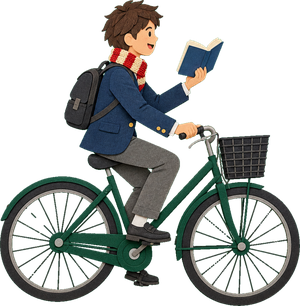
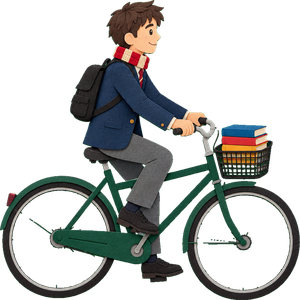
v2-pro preview: Pudding greets the cyclist
Claude-Session: https://claude.ai/code/session_01YFmgE8t31npEdtV1E44xiG

Changed region(s): [[0.0, 0.0, 1.0, 1.0], [0.33, 0.42, 0.39, 0.45]]

diff --git a/v2-pro/index.html b/v2-pro/index.html
@@ -313,11 +313,21 @@ p { margin: 0; }
 
 
 /* Pudding the puppy sits on the pavement by the student from the start; when the journey arrives she hops, then wags and tilts her head */
-.stepimg .pudding { position: absolute; width: 7.6%; height: auto; left: 30.5%; top: 57.5%; transform-origin: 50% 100%; pointer-events: none; filter: drop-shadow(0 2px 1px rgba(0,0,0,.22)); }
+.stepimg .pud { position: absolute; width: 7.6%; left: 30.5%; top: 57.5%; pointer-events: none; }
+.stepimg .pudding { display: block; width: 100%; height: auto; transform-origin: 50% 100%; pointer-events: none; filter: drop-shadow(0 2px 1px rgba(0,0,0,.22)); }
 .journey.live li.played .stepimg .pudding { animation: pud-hop .9s steps(1, end) 1.2s 1, pud-wag 2.4s steps(1, end) 2.2s infinite; }
 @keyframes pud-hop { 0%, 100% { transform: none; } 20% { transform: scale(1.06, .9); } 40% { transform: translateY(-24%) scale(.96, 1.06); } 60% { transform: translateY(-8%); } 80% { transform: scale(1.04, .94); } }
 @keyframes pud-wag { 0%, 100% { transform: none; } 15% { transform: rotate(-5deg); } 30% { transform: rotate(4deg); } 45% { transform: rotate(-4deg); } 60% { transform: rotate(3deg) translateY(-4%); } 75% { transform: none; } }
-@media (prefers-reduced-motion: reduce) { .stepimg .pudding { animation: none !important; } }
+/* when the boy stops, Pudding turns, trots over and jumps up to greet him */
+.journey.live li.played .stepimg .pud { animation: pud-greet 1.9s steps(1, end) 2.9s 1 forwards; }
+@keyframes pud-greet {
+  0% { left: 30.5%; top: 57.5%; transform: none; } 10% { left: 30.5%; top: 57.5%; transform: scaleX(-1); }
+  20% { left: 28.5%; top: 58%; transform: scaleX(-1) translateY(-10%); } 30% { left: 26.5%; top: 58.5%; transform: scaleX(-1); }
+  40% { left: 24.5%; top: 59%; transform: scaleX(-1) translateY(-10%); } 50% { left: 22.5%; top: 59.5%; transform: scaleX(-1); }
+  60% { left: 20.5%; top: 60%; transform: scaleX(-1) translateY(-10%); } 68% { left: 19.5%; top: 60.5%; transform: scaleX(-1); }
+  78% { left: 19.5%; top: 60.5%; transform: scaleX(-1) translateY(-24%) rotate(-6deg); } 86% { left: 19.5%; top: 60.5%; transform: scaleX(-1); }
+  94% { left: 19.5%; top: 60.5%; transform: scaleX(-1) translateY(-16%) rotate(-4deg); } 100% { left: 19.5%; top: 60.5%; transform: scaleX(-1); } }
+@media (prefers-reduced-motion: reduce) { .stepimg .pudding, .stepimg .pud { animation: none !important; } }
 
 
 .intro .sunsetsky { position: absolute; inset: 0; z-index: 0; opacity: 0; pointer-events: none;
@@ -577,7 +587,7 @@ footer .base { margin-top: 40px; padding-top: 18px; border-top: 1px solid rgba(2
           </div>
         </div>
         <figure class="pframe">
-          <img src="images/v2/consult.jpg?v=1795372615" alt="A consultant talking with a mother and her daughter by a window over the sea" width="1400" height="933">
+          <img src="images/v2/consult.jpg?v=1795372717" alt="A consultant talking with a mother and her daughter by a window over the sea" width="1400" height="933">
         </figure>
       </div>
       <div class="facts">
@@ -598,9 +608,9 @@ footer .base { margin-top: 40px; padding-top: 18px; border-top: 1px solid rgba(2
       <div>
         <div class="journey" id="journey"><span class="track" aria-hidden="true"><span class="fill"></span><span class="dot"></span></span>
         <ol class="process">
-          <li><span class="n">1</span><h3><span class="en">A free conversation</span><span class="zh">免费沟通</span></h3><p><span class="en">Tell us about age, grades, English level, budget and goals, by WeChat call or in person.</span><span class="zh">通过微信语音或面谈，聊聊年龄、成绩、英语水平、预算和目标。</span><span class="who"><span class="en">With Oriwis</span><span class="zh">Oriwis 陪同</span></span></p><div class="stepimg"><div class="scene"><img class="base" src="images/v2/step1.jpg?v=1795372615" alt="Paper-cut illustration: a consultant with a short black bob, in a navy blazer, talking with a mother and her daughter at a table, with a palm tree in the window" width="960" height="640" loading="lazy"><div class="sea" style="left:30.312%;top:15.000%;width:22.396%;height:25.000%"><img src="images/v2/step1.jpg?v=1795372615" alt="" style="width:446.512%;left:-135.349%;top:-60.000%;transform-origin:41.51% 27.50%"></div><div class="sea" style="left:54.583%;top:17.500%;width:21.562%;height:22.500%"><img src="images/v2/step1.jpg?v=1795372615" alt="" style="width:463.768%;left:-253.140%;top:-77.778%;transform-origin:65.36% 28.75%"></div><svg class="palm" viewBox="0 0 120 170" aria-hidden="true" style="left:62.292%;top:0.000%;width:10.000%"><ellipse cx="60" cy="160" rx="34" ry="8" fill="#cdb07a"/><ellipse cx="60" cy="157" rx="30" ry="7" fill="#e9d3a3"/><g class="palm-sway"><path d="M55 158 C57 125 52 92 60 52 L67 53 C61 92 66 125 65 158 Z" fill="#8a5c3a"/><path d="M57 150h8M56 138h9M55 126h9M55 114h9M56 102h9M57 90h9M58 78h8M59 66h8" stroke="#6d4529" stroke-width="2" stroke-linecap="round"/><g class="fronds"><path d="M63 50 C45 34 22 32 6 44 C24 38 42 42 63 54 Z" fill="#2c7c58"/><path d="M63 50 C50 26 34 14 16 14 C34 22 47 34 61 54 Z" fill="#3a9a6c"/><path d="M63 50 C64 28 72 12 86 6 C76 18 70 32 66 54 Z" fill="#2c7c58"/><path d="M63 50 C80 32 100 30 116 40 C98 38 82 42 66 55 Z" fill="#3a9a6c"/><path d="M64 52 C84 50 104 58 112 74 C98 62 82 58 64 57 Z" fill="#2c7c58"/><path d="M62 52 C44 52 24 62 16 78 C30 66 46 60 62 57 Z" fill="#3a9a6c"/><circle cx="60" cy="56" r="4.2" fill="#6b4a2e"/><circle cx="67" cy="57" r="4" fill="#5a3d25"/></g></g></svg><svg class="gull" viewBox="0 0 40 20" aria-hidden="true"><path class="w1" d="M2 12 Q10 2 20 11 Q30 2 38 12 Q30 7 20 14 Q10 7 2 12Z"/><path class="w2" d="M3 6 Q11 13 20 11 Q29 13 37 6 Q29 15 20 15 Q11 15 3 6Z"/></svg><span class="wtint" aria-hidden="true" style="left:30.312%;top:0.000%;width:22.396%;height:40.000%"><span class="dusk"></span><span class="night"><i class="wstar" style="left:18%;top:20%"></i><i class="wstar" style="left:40%;top:10%"></i><i class="wstar" style="left:70%;top:30%"></i><i class="wstar" style="left:25%;top:45%"></i></span></span><span class="wtint" aria-hidden="true" style="left:54.583%;top:0.000%;width:21.562%;height:40.000%"><span class="dusk"></span><span class="night"><i class="wmoon"></i><i class="wstar" style="left:15%;top:12%"></i><i class="wstar" style="left:35%;top:40%"></i><i class="wstar" style="left:55%;top:8%"></i></span></span><div class="pc b1" style="left:0.000%;top:46.094%;width:31.562%;transform-origin:46.2% 99.6%"><img class="bimg" src="images/v2/step1-b1.png?v=1795372615" alt="" loading="lazy"><img class="arm" src="images/v2/step1-arm.png?v=1795372615" alt="" loading="lazy" style="left:86.139%;top:21.983%;width:36.964%;transform-origin:22.3% 85.4%"><img class="head h1" src="images/v2/step1-h1.png?v=1795372615" alt="" loading="lazy" style="left:14.191%;top:-76.293%;width:61.716%;transform-origin:62.6% 98.9%"></div><div class="pc b2" style="left:38.646%;top:47.500%;width:28.958%;transform-origin:50.0% 98.6%"><img class="bimg" src="images/v2/step1-b2.png?v=1795372615" alt="" loading="lazy"><img class="head h2" src="images/v2/step1-h2.png?v=1795372615" alt="" loading="lazy" style="left:17.626%;top:-92.417%;width:74.820%;transform-origin:49.0% 99.5%"></div><div class="pc b3" style="left:72.604%;top:49.375%;width:26.875%;transform-origin:47.7% 98.4%"><img class="bimg" src="images/v2/step1-b3.png?v=1795372615" alt="" loading="lazy"><img class="head h3" src="images/v2/step1-h3.png?v=1795372615" alt="" loading="lazy" style="left:23.256%;top:-61.200%;width:74.806%;transform-origin:30.1% 99.4%"></div></div></div></li>
-          <li><span class="n">2</span><h3><span class="en">Your shortlist</span><span class="zh">匹配清单</span></h3><p><span class="en">A short list of suitable UK schools or courses, with entry requirements and timing explained.</span><span class="zh">一份适合你的英国学校或课程清单，讲清入学要求和时间安排。</span><span class="who"><span class="en">With Oriwis</span><span class="zh">Oriwis 陪同</span></span></p><div class="stepimg"><div class="scene"><img class="base" src="images/v2/step2.jpg?v=1795372615" alt="Paper-cut illustration: a magnifying glass moves over a map of the UK and finds schools in Scotland, the Midlands and London" width="960" height="640" loading="lazy"><img class="card cardA" src="images/v2/step2-cardA.png?v=1795372615" alt="" loading="lazy" style="left:62.500%;top:6.562%;width:26.042%"><img class="card cardC" src="images/v2/step2-cardC.png?v=1795372615" alt="" loading="lazy" style="left:12.500%;top:39.062%;width:22.396%"><img class="card cardB" src="images/v2/step2-cardB.png?v=1795372615" alt="" loading="lazy" style="left:70.000%;top:51.562%;width:26.042%"><svg class="mag" viewBox="0 0 120 120" aria-hidden="true"><rect x="74" y="70" width="16" height="52" rx="7" transform="rotate(-45 82 96)" fill="#1e4a63"/><rect x="77" y="73" width="6" height="40" rx="3" transform="rotate(-45 80 93)" fill="#2f6582"/><circle cx="48" cy="48" r="38" fill="rgba(255,255,255,.22)" stroke="#1e4a63" stroke-width="10"/><circle cx="48" cy="48" r="31" fill="none" stroke="#8fc6c9" stroke-width="3"/><path d="M30 30 Q38 22 50 22" fill="none" stroke="#fff" stroke-width="5" stroke-linecap="round" opacity=".75"/></svg></div></div></li>
-          <li class="you"><span class="n">3</span><h3><span class="en">Introduction to the school</span><span class="zh">对接学校</span></h3><p><span class="en">We introduce you to the school or its official partner. You apply and pay them directly.</span><span class="zh">我们为你介绍学校或其官方合作方，申请与缴费由你直接完成。</span><span class="who"><span class="en">You and the school</span><span class="zh">你与学校</span></span></p><div class="stepimg"><div class="scene"><img class="base" src="images/v2/step3.jpg?v=1795372615" alt="Paper-cut illustration: a student and her mother shake hands with a teacher at a London school gate, with Big Ben, a red phone box, a street lamp and a little white poodle puppy and a schoolboy cycling in with a book, while the front of a red double-decker bus pulls in at the right" width="960" height="640" loading="lazy"><span class="lamp" aria-hidden="true" style="left:93.229%;top:18.438%"><i class="halo"></i><i class="glass"></i></span><img class="pudding" src="images/v2/step3-pudding.png?v=1795372615" alt="" loading="lazy" width="220"><span class="cyclist" aria-hidden="true"><svg class="scarf" viewBox="0 0 100 40" aria-hidden="true"><g class="s1"><path d="M100 10 C82 4 64 16 44 9 S14 4 2 12" fill="none" stroke="#c8322f" stroke-width="9" stroke-linecap="round"/><path d="M100 10 C82 4 64 16 44 9 S14 4 2 12" fill="none" stroke="#f2e6cf" stroke-width="9" stroke-dasharray="7 7"/><path d="M2 12 l-3 -4 M2 12 l-4 0 M2 12 l-3 4" stroke="#c8322f" stroke-width="1.6" stroke-linecap="round"/></g><g class="s2"><path d="M100 10 C82 16 62 2 42 12 S12 16 2 6" fill="none" stroke="#c8322f" stroke-width="9" stroke-linecap="round"/><path d="M100 10 C82 16 62 2 42 12 S12 16 2 6" fill="none" stroke="#f2e6cf" stroke-width="9" stroke-dasharray="7 7"/><path d="M2 6 l-3 -4 M2 6 l-4 0 M2 6 l-3 4" stroke="#c8322f" stroke-width="1.6" stroke-linecap="round"/></g></svg><img src="images/v2/step3-boy.png?v=1795372615" alt="" loading="lazy" width="300" height="306"></span><img class="hands" src="images/v2/step3-hands.png?v=1795372615" alt="" loading="lazy" style="left:48.854%;top:45.625%;width:5.729%"><img class="bus" src="images/v2/step3-bus.png?v=1795372615" alt="" loading="lazy" width="520" height="389"></div></div></li>
+          <li><span class="n">1</span><h3><span class="en">A free conversation</span><span class="zh">免费沟通</span></h3><p><span class="en">Tell us about age, grades, English level, budget and goals, by WeChat call or in person.</span><span class="zh">通过微信语音或面谈，聊聊年龄、成绩、英语水平、预算和目标。</span><span class="who"><span class="en">With Oriwis</span><span class="zh">Oriwis 陪同</span></span></p><div class="stepimg"><div class="scene"><img class="base" src="images/v2/step1.jpg?v=1795372717" alt="Paper-cut illustration: a consultant with a short black bob, in a navy blazer, talking with a mother and her daughter at a table, with a palm tree in the window" width="960" height="640" loading="lazy"><div class="sea" style="left:30.312%;top:15.000%;width:22.396%;height:25.000%"><img src="images/v2/step1.jpg?v=1795372717" alt="" style="width:446.512%;left:-135.349%;top:-60.000%;transform-origin:41.51% 27.50%"></div><div class="sea" style="left:54.583%;top:17.500%;width:21.562%;height:22.500%"><img src="images/v2/step1.jpg?v=1795372717" alt="" style="width:463.768%;left:-253.140%;top:-77.778%;transform-origin:65.36% 28.75%"></div><svg class="palm" viewBox="0 0 120 170" aria-hidden="true" style="left:62.292%;top:0.000%;width:10.000%"><ellipse cx="60" cy="160" rx="34" ry="8" fill="#cdb07a"/><ellipse cx="60" cy="157" rx="30" ry="7" fill="#e9d3a3"/><g class="palm-sway"><path d="M55 158 C57 125 52 92 60 52 L67 53 C61 92 66 125 65 158 Z" fill="#8a5c3a"/><path d="M57 150h8M56 138h9M55 126h9M55 114h9M56 102h9M57 90h9M58 78h8M59 66h8" stroke="#6d4529" stroke-width="2" stroke-linecap="round"/><g class="fronds"><path d="M63 50 C45 34 22 32 6 44 C24 38 42 42 63 54 Z" fill="#2c7c58"/><path d="M63 50 C50 26 34 14 16 14 C34 22 47 34 61 54 Z" fill="#3a9a6c"/><path d="M63 50 C64 28 72 12 86 6 C76 18 70 32 66 54 Z" fill="#2c7c58"/><path d="M63 50 C80 32 100 30 116 40 C98 38 82 42 66 55 Z" fill="#3a9a6c"/><path d="M64 52 C84 50 104 58 112 74 C98 62 82 58 64 57 Z" fill="#2c7c58"/><path d="M62 52 C44 52 24 62 16 78 C30 66 46 60 62 57 Z" fill="#3a9a6c"/><circle cx="60" cy="56" r="4.2" fill="#6b4a2e"/><circle cx="67" cy="57" r="4" fill="#5a3d25"/></g></g></svg><svg class="gull" viewBox="0 0 40 20" aria-hidden="true"><path class="w1" d="M2 12 Q10 2 20 11 Q30 2 38 12 Q30 7 20 14 Q10 7 2 12Z"/><path class="w2" d="M3 6 Q11 13 20 11 Q29 13 37 6 Q29 15 20 15 Q11 15 3 6Z"/></svg><span class="wtint" aria-hidden="true" style="left:30.312%;top:0.000%;width:22.396%;height:40.000%"><span class="dusk"></span><span class="night"><i class="wstar" style="left:18%;top:20%"></i><i class="wstar" style="left:40%;top:10%"></i><i class="wstar" style="left:70%;top:30%"></i><i class="wstar" style="left:25%;top:45%"></i></span></span><span class="wtint" aria-hidden="true" style="left:54.583%;top:0.000%;width:21.562%;height:40.000%"><span class="dusk"></span><span class="night"><i class="wmoon"></i><i class="wstar" style="left:15%;top:12%"></i><i class="wstar" style="left:35%;top:40%"></i><i class="wstar" style="left:55%;top:8%"></i></span></span><div class="pc b1" style="left:0.000%;top:46.094%;width:31.562%;transform-origin:46.2% 99.6%"><img class="bimg" src="images/v2/step1-b1.png?v=1795372717" alt="" loading="lazy"><img class="arm" src="images/v2/step1-arm.png?v=1795372717" alt="" loading="lazy" style="left:86.139%;top:21.983%;width:36.964%;transform-origin:22.3% 85.4%"><img class="head h1" src="images/v2/step1-h1.png?v=1795372717" alt="" loading="lazy" style="left:14.191%;top:-76.293%;width:61.716%;transform-origin:62.6% 98.9%"></div><div class="pc b2" style="left:38.646%;top:47.500%;width:28.958%;transform-origin:50.0% 98.6%"><img class="bimg" src="images/v2/step1-b2.png?v=1795372717" alt="" loading="lazy"><img class="head h2" src="images/v2/step1-h2.png?v=1795372717" alt="" loading="lazy" style="left:17.626%;top:-92.417%;width:74.820%;transform-origin:49.0% 99.5%"></div><div class="pc b3" style="left:72.604%;top:49.375%;width:26.875%;transform-origin:47.7% 98.4%"><img class="bimg" src="images/v2/step1-b3.png?v=1795372717" alt="" loading="lazy"><img class="head h3" src="images/v2/step1-h3.png?v=1795372717" alt="" loading="lazy" style="left:23.256%;top:-61.200%;width:74.806%;transform-origin:30.1% 99.4%"></div></div></div></li>
+          <li><span class="n">2</span><h3><span class="en">Your shortlist</span><span class="zh">匹配清单</span></h3><p><span class="en">A short list of suitable UK schools or courses, with entry requirements and timing explained.</span><span class="zh">一份适合你的英国学校或课程清单，讲清入学要求和时间安排。</span><span class="who"><span class="en">With Oriwis</span><span class="zh">Oriwis 陪同</span></span></p><div class="stepimg"><div class="scene"><img class="base" src="images/v2/step2.jpg?v=1795372717" alt="Paper-cut illustration: a magnifying glass moves over a map of the UK and finds schools in Scotland, the Midlands and London" width="960" height="640" loading="lazy"><img class="card cardA" src="images/v2/step2-cardA.png?v=1795372717" alt="" loading="lazy" style="left:62.500%;top:6.562%;width:26.042%"><img class="card cardC" src="images/v2/step2-cardC.png?v=1795372717" alt="" loading="lazy" style="left:12.500%;top:39.062%;width:22.396%"><img class="card cardB" src="images/v2/step2-cardB.png?v=1795372717" alt="" loading="lazy" style="left:70.000%;top:51.562%;width:26.042%"><svg class="mag" viewBox="0 0 120 120" aria-hidden="true"><rect x="74" y="70" width="16" height="52" rx="7" transform="rotate(-45 82 96)" fill="#1e4a63"/><rect x="77" y="73" width="6" height="40" rx="3" transform="rotate(-45 80 93)" fill="#2f6582"/><circle cx="48" cy="48" r="38" fill="rgba(255,255,255,.22)" stroke="#1e4a63" stroke-width="10"/><circle cx="48" cy="48" r="31" fill="none" stroke="#8fc6c9" stroke-width="3"/><path d="M30 30 Q38 22 50 22" fill="none" stroke="#fff" stroke-width="5" stroke-linecap="round" opacity=".75"/></svg></div></div></li>
+          <li class="you"><span class="n">3</span><h3><span class="en">Introduction to the school</span><span class="zh">对接学校</span></h3><p><span class="en">We introduce you to the school or its official partner. You apply and pay them directly.</span><span class="zh">我们为你介绍学校或其官方合作方，申请与缴费由你直接完成。</span><span class="who"><span class="en">You and the school</span><span class="zh">你与学校</span></span></p><div class="stepimg"><div class="scene"><img class="base" src="images/v2/step3.jpg?v=1795372717" alt="Paper-cut illustration: a student and her mother shake hands with a teacher at a London school gate, with Big Ben, a red phone box, a street lamp and a little white poodle puppy and a schoolboy cycling in with books in his basket, whom the puppy runs over to greet, while the front of a red double-decker bus pulls in at the right" width="960" height="640" loading="lazy"><span class="lamp" aria-hidden="true" style="left:93.229%;top:18.438%"><i class="halo"></i><i class="glass"></i></span><span class="pud"><img class="pudding" src="images/v2/step3-pudding.png?v=1795372717" alt="" loading="lazy" width="220"></span><span class="cyclist" aria-hidden="true"><svg class="scarf" viewBox="0 0 100 40" aria-hidden="true"><g class="s1"><path d="M100 10 C82 4 64 16 44 9 S14 4 2 12" fill="none" stroke="#c8322f" stroke-width="9" stroke-linecap="round"/><path d="M100 10 C82 4 64 16 44 9 S14 4 2 12" fill="none" stroke="#f2e6cf" stroke-width="9" stroke-dasharray="7 7"/><path d="M2 12 l-3 -4 M2 12 l-4 0 M2 12 l-3 4" stroke="#c8322f" stroke-width="1.6" stroke-linecap="round"/></g><g class="s2"><path d="M100 10 C82 16 62 2 42 12 S12 16 2 6" fill="none" stroke="#c8322f" stroke-width="9" stroke-linecap="round"/><path d="M100 10 C82 16 62 2 42 12 S12 16 2 6" fill="none" stroke="#f2e6cf" stroke-width="9" stroke-dasharray="7 7"/><path d="M2 6 l-3 -4 M2 6 l-4 0 M2 6 l-3 4" stroke="#c8322f" stroke-width="1.6" stroke-linecap="round"/></g></svg><img src="images/v2/step3-boy.png?v=1795372717" alt="" loading="lazy" width="300" height="300"></span><img class="hands" src="images/v2/step3-hands.png?v=1795372717" alt="" loading="lazy" style="left:48.854%;top:45.625%;width:5.729%"><img class="bus" src="images/v2/step3-bus.png?v=1795372717" alt="" loading="lazy" width="520" height="389"></div></div></li>
         </ol></div>
         <div class="scope">
           <div><h3><span class="en">What we do</span><span class="zh">我们提供</span></h3><ul><li><span class="en">Match your profile to suitable UK options</span><span class="zh">根据你的情况匹配英国学校与课程</span></li><li><span class="en">A free first consultation</span><span class="zh">免费初步咨询</span></li><li><span class="en">Referral to the school or its partner</span><span class="zh">转介至学校或其合作方</span></li></ul></div>
@@ -696,7 +706,7 @@ footer .base { margin-top: 40px; padding-top: 18px; border-top: 1px solid rgba(2
         <p class="legal"><span class="en">Oriwis provides study-abroad information matching, preliminary consultations and referrals only. We are not a study-abroad agency. We do not handle admissions, collect fees from students, or sign admission guarantee agreements. Students register, pay and complete all procedures directly with the school or its overseas partner.</span><span class="zh">Oriwis 仅提供留学信息匹配、初步咨询与转介服务，不是留学中介机构。我们不代办入学申请，不向学生收取费用，不签署任何录取担保协议。学生最终直接向学校或海外合作方注册、缴费并办理相关手续。</span></p>
       </div>
     </div>
-    <div class="base"><span>© <span id="yr">2026</span> Oriwis · Preview 23 Nov 02:36</span><span><span class="en">Photos are AI-generated illustrations, not real students or schools.</span><span class="zh">网站图片为 AI 生成的示意图，并非真实学生或学校。</span></span></div>
+    <div class="base"><span>© <span id="yr">2026</span> Oriwis · Preview 23 Nov 02:38</span><span><span class="en">Photos are AI-generated illustrations, not real students or schools.</span><span class="zh">网站图片为 AI 生成的示意图，并非真实学生或学校。</span></span></div>
   </div>
 </footer>
 
